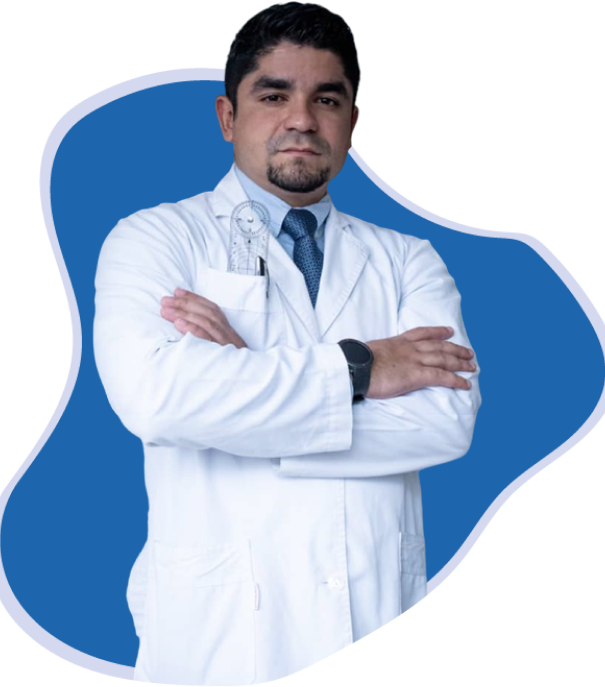
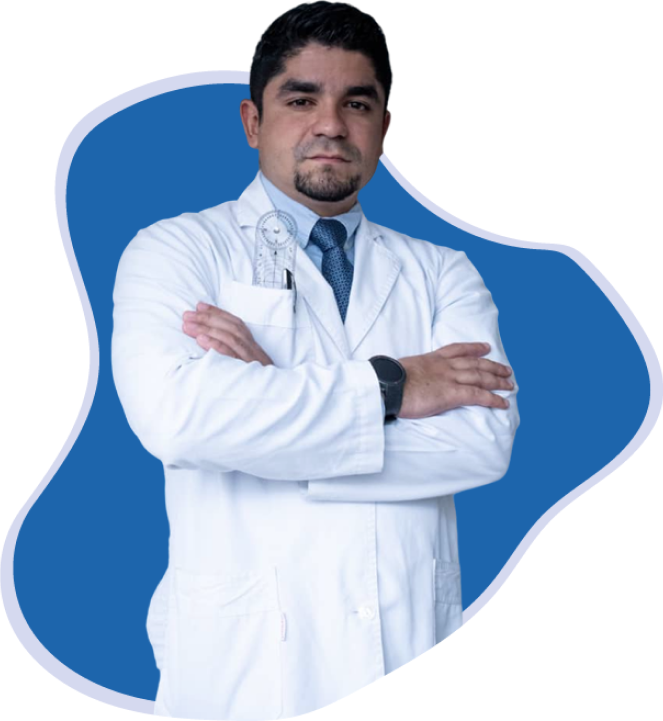
sexto commit

diff --git a/components/Info.js b/components/Info.js
@@ -29,8 +29,8 @@ export default function Info() {
                             con DOLOR, no es realmente vivir
                         </h2>
                     </div>
-                    <div className='row'>
-                        <div className='col-xl-4'>
+                    <div className='row d-flex justify-content-md-center'>
+                        <div className='col-lg-6 col-xl-4'>
                             <div className={infoStyle.boxes}>
                                 <div className={infoStyle.contentImagenBox}>
                                     <Image src={boxesImage1} alt='imagen-desgaste-articular' />
@@ -47,7 +47,7 @@ export default function Info() {
                             </div>
                         </div>
                         {/* DOS */}
-                        <div className='col-xl-4'>
+                        <div className='col-lg-6 col-xl-4'>
                             <div className={infoStyle.boxes}>
                                 <div className={infoStyle.contentImagenBox}>
                                     <Image src={boxesImage2} alt='Abordaje-inferior-de-cadera' />
@@ -64,7 +64,7 @@ export default function Info() {
                             </div>
                         </div>
                         {/* TRES */}
-                        <div className='col-xl-4'>
+                        <div className='col-lg-6 col-xl-4'>
                             <div className={infoStyle.boxes}>
                                 <div className={infoStyle.contentImagenBox}>
                                     <Image src={boxesImage3} alt='Gonartrosis' />
@@ -81,7 +81,7 @@ export default function Info() {
                             </div>
                         </div>
                         {/* CUATRO */}
-                        <div className='col-xl-4'>
+                        <div className='col-lg-6 col-xl-4'>
                             <div className={infoStyle.boxes}>
                                 <div className={infoStyle.contentImagenBox}>
                                     <Image src={boxesImage4} alt='necrosisavascular' />
@@ -98,7 +98,7 @@ export default function Info() {
                             </div>
                         </div>
                         {/* CINCO */}
-                        <div className='col-xl-4'>
+                        <div className='col-lg-6 col-xl-4'>
                             <div className={infoStyle.boxes}>
                                 <div className={infoStyle.contentImagenBox}>
                                     <Image src={boxesImage5} alt='Artoplastia' />
@@ -115,7 +115,7 @@ export default function Info() {
                             </div>
                         </div>
                         {/* SEIS */}
-                        <div className='col-xl-4'>
+                        <div className='col-lg-6 col-xl-4'>
                             <div className={infoStyle.boxes}>
                                 <div className={infoStyle.contentImagenBox}>
                                     <Image src={boxesImage6} alt='necrosisavascular' />

diff --git a/components/Contacto.js b/components/Contacto.js
@@ -7,16 +7,16 @@ import Image from 'next/image';
 export default function Contacto() {
     return (
         <>
-            <div className={contactoStyle.contentContacto}>
+            <div className={contactoStyle.contentContacto} id='Contacto'>
                 <h2>CONTÁCTAME PARA AGENDAR UNA CITA</h2>
                 <div className='container'>
-                    <div className='row'>
-                        <div className='col-xl-6'>
+                    <div className='row d-flex justify-content-between align-items-lg-center align-items-xl-start'>
+                        <div className='col-md-12 col-lg-6 col-xl-6'>
                             <div className={contactoStyle.contentPerfilContacto}>
                                 <Image src={perfilContacto} alt='perfil-contacto' />
                             </div>
                         </div>
-                        <div className='col-xl-6'>
+                        <div className='col-md-12 col-lg-6 col-xl-6'>
                             <div className={contactoStyle.contentFormContacto}>
                                 <form>
                                     <label>Nombre</label>

diff --git a/styles/Contacto.module.css b/styles/Contacto.module.css
@@ -2,6 +2,12 @@
 .contentContacto{
     background: linear-gradient(180deg, rgba(4, 84, 163, 0.12) 0%, rgba(4, 92, 164, 0.12) 100%);
     position: relative;
+    padding-bottom: 400px;
+}
+@media (max-width:990px){
+    .contentContacto{
+        padding-bottom:120px;
+    }
 }
 .contentContacto::after{
     content: '';
@@ -34,7 +40,23 @@
 .contentPerfilContacto img{
     z-index: 2;
     position: relative;
+    width:100%;
+    height: auto;
 }
+@media (max-width:992px){
+    .contentContacto h2{
+        margin-bottom: 95px;
+    }
+    .contentPerfilContacto{
+        margin: auto;
+        text-align: center;
+    }
+    .contentPerfilContacto img{
+        width: 70%;
+        margin-bottom:90px;
+    }
+}
+
 .contentFormContacto{
     background: white;
     background: #FEFEFE;
@@ -42,7 +64,6 @@
     padding: 30px 60px 90px 45px;
     position: relative;
     z-index: 2;
-    margin-bottom:400px;
 }
 .contentFormContacto label{
     font-family: 'Open Sans', sans-serif;

diff --git a/components/Navbar.js b/components/Navbar.js
@@ -26,17 +26,17 @@ export default function Navbar() {
       <div className="collapse navbar-collapse" id="navbarNav">
         <ul className="navbar-nav">
           <li className="nav-item">
-            <a className="nav-link active" aria-current="page" href="#">
+            <a className="nav-link active" aria-current="page" href="#Inicio">
                 INICIO
             </a>
           </li>
           <li className="nav-item">
-            <a className="nav-link" href="#">
+            <a className="nav-link" href="#About">
               CONÓCENOS
             </a>
           </li>
           <li className="nav-item">
-            <a className="nav-link" href="#">
+            <a className="nav-link" href="#Contacto">
               CONTACTO
             </a>
           </li>

diff --git a/styles/Info.module.css b/styles/Info.module.css
@@ -18,6 +18,11 @@
 }
 .boxes{
     margin-bottom: 100px;
+    width: 100%;
+}
+.contentImagenBox img{
+   width: 100%;
+   height: auto;
 }
 .titleBox h4{
     margin: 20px 0;
@@ -31,6 +36,7 @@
     line-height: 1.7;
     font-size: 16px;
     color: #4F4E4E;
+    max-width: 391px;
 }
 .buttonBox button{
     background: #0454A3;
@@ -40,6 +46,18 @@
     font-family: 'Open Sans', sans-serif;
     border: none;
     padding: 15px 20px;
+}
+@media (max-width:991px){
+   .boxes{
+    max-width:391px;
+    margin: auto;
+    margin-bottom: 100px;
+   }
+}
+@media (max-width:600px){
+   .titleInfo h2{
+      font-size:30px;
+   }
 }
  /* BOXES MORE */
  .allContentBoxesMore{

diff --git a/components/About.js b/components/About.js
@@ -7,7 +7,7 @@ import comillasAbout from '../assets/image/comillas-about.png';
 export default function About() {
     return (
         <>
-            <div className={aboutStyle.contentAbout}>
+            <div className={aboutStyle.contentAbout} id='About'>
                 <div className={aboutStyle.contentTitle}>
                     <h2>QUIEN SOY</h2>
                     <div className='container'>

diff --git a/styles/Footer.module.css b/styles/Footer.module.css
@@ -134,13 +134,13 @@
      }
      /* LOGO */
      .logoFooterStyle{
-        max-width: 246px;
-        margin: auto;
+        text-align: center;
      }
      .descriptionLogo{
         margin: auto;
         margin-top: 20px;
-        max-width: 246px;
+        width: 50%;
+        text-align: center;
      }
     
      /* CONTACTO */

diff --git a/styles/About.module.css b/styles/About.module.css
@@ -18,6 +18,14 @@
     width: 100%;
     height: auto;
 }
+@media (max-width:1199px){
+    .contentPerfilAbout{
+        text-align: center;
+    }
+    .contentPerfilAbout img{
+        width:70%;
+    }
+}
 .cuadroTexto{
     background: white;
     box-shadow: 0px 4px 4px rgba(0, 0, 0, 0.25);

diff --git a/components/Slider.js b/components/Slider.js
@@ -8,7 +8,7 @@ import sliderStyle from '../styles/Slider.module.css';
 
 export default function slider() {
   return (
-    <div>
+    <div id='Inicio'>
       <Navbar />
       <div
         id="carouselExampleIndicators"
